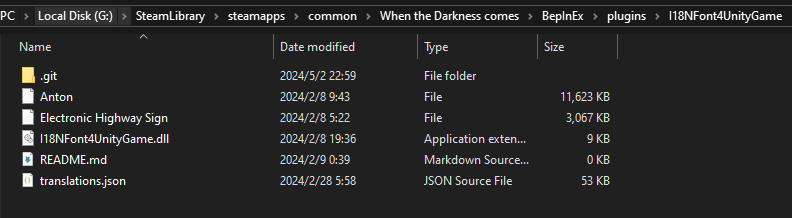
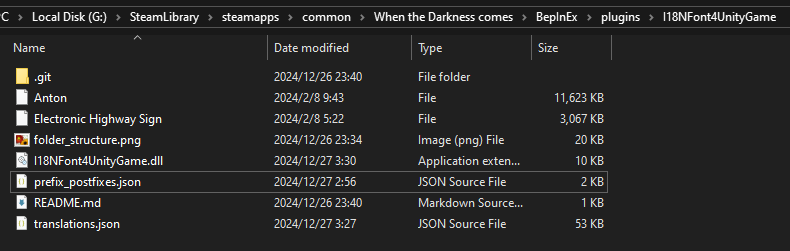
润色翻译 (again and again), 增加程序替换文本汉化支持

diff --git a/README.md b/README.md
@@ -2,14 +2,15 @@
 基于 [xiaoye97](https://github.com/xiaoye97/I18NFont4UnityGame) 的项目制作的 BeplnEx 汉化插件  
 使用了多个字体合并作为游戏字体, 字体来源:  
 Anton: [Google Fonts \[拉丁字母\]](https://fonts.google.com/specimen/Anton) [思源黑体 \[中文\]](https://github.com/adobe-fonts/source-han-sans)  
-Electronic Highway Sign: [DaFont \[拉丁字母\]](https://www.dafont.com/electronic-highway-sign.font) [缝合像素字体 \[中文\]](https://github.com/TakWolf/fusion-pixel-font)
+Electronic Highway Sign: [DaFont \[拉丁字母\]](https://www.dafont.com/electronic-highway-sign.font) [缝合像素字体 \[中文\]](https://github.com/TakWolf/fusion-pixel-font)  
+(我可能会在后边换成单一字体, 主要字体更换为粗体字体, 让一些场景的文字更清晰, 看我的Unity什么时候愿意打开 :/)
 
 # 存在的问题
-  1. 游戏设置页面以及部分程序自动替换文本的句子没有翻译/无法翻译
-  2. 字体合并带来的行距问题在某些时候可能导致很难阅读
-  3. 字体可能在部分场景下会难以阅读
+  1. 游戏设置页面没有翻译
+  2. 因为字体合并带来的行距问题在某些时候可能导致很难阅读
+  3. 字体因为太细可能在部分场景下会难以阅读
 
 # 安装
 这个 Repo 只是留给我个人归档用的, 如果你想用可以去搜怎么安装 BeplnEx 插件  
-以下是大概的文件夹结构 (如果你想用的话)
+以下是大概的插件文件夹结构 (如果你想用的话)
 ![文件结构](/folder_structure.png)
